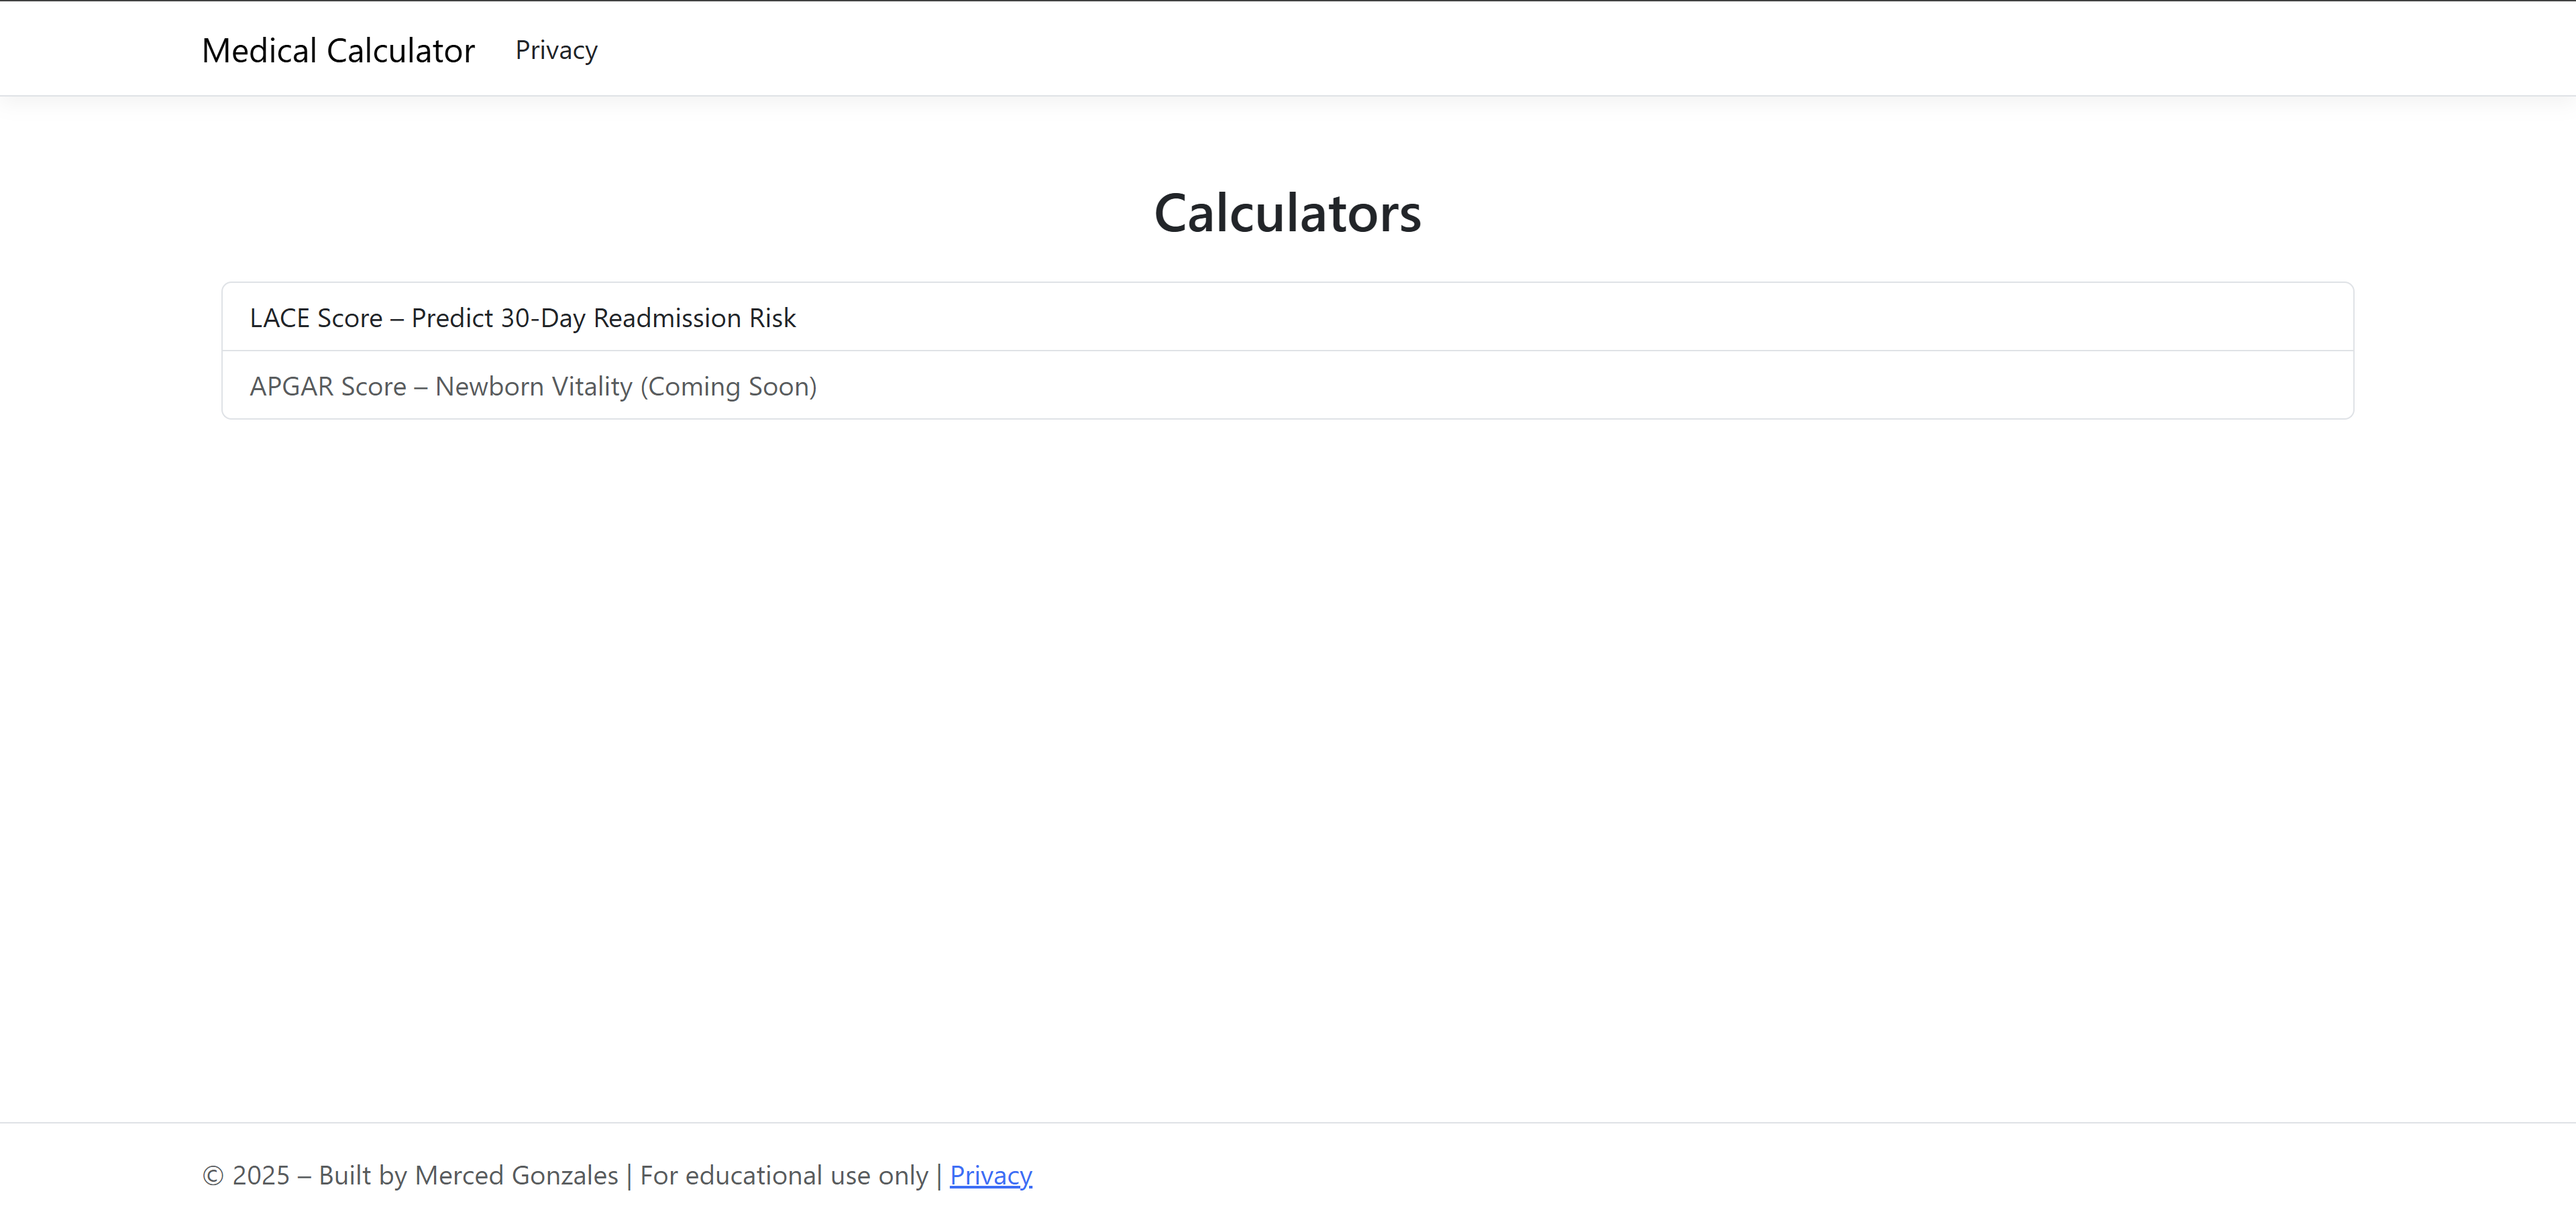
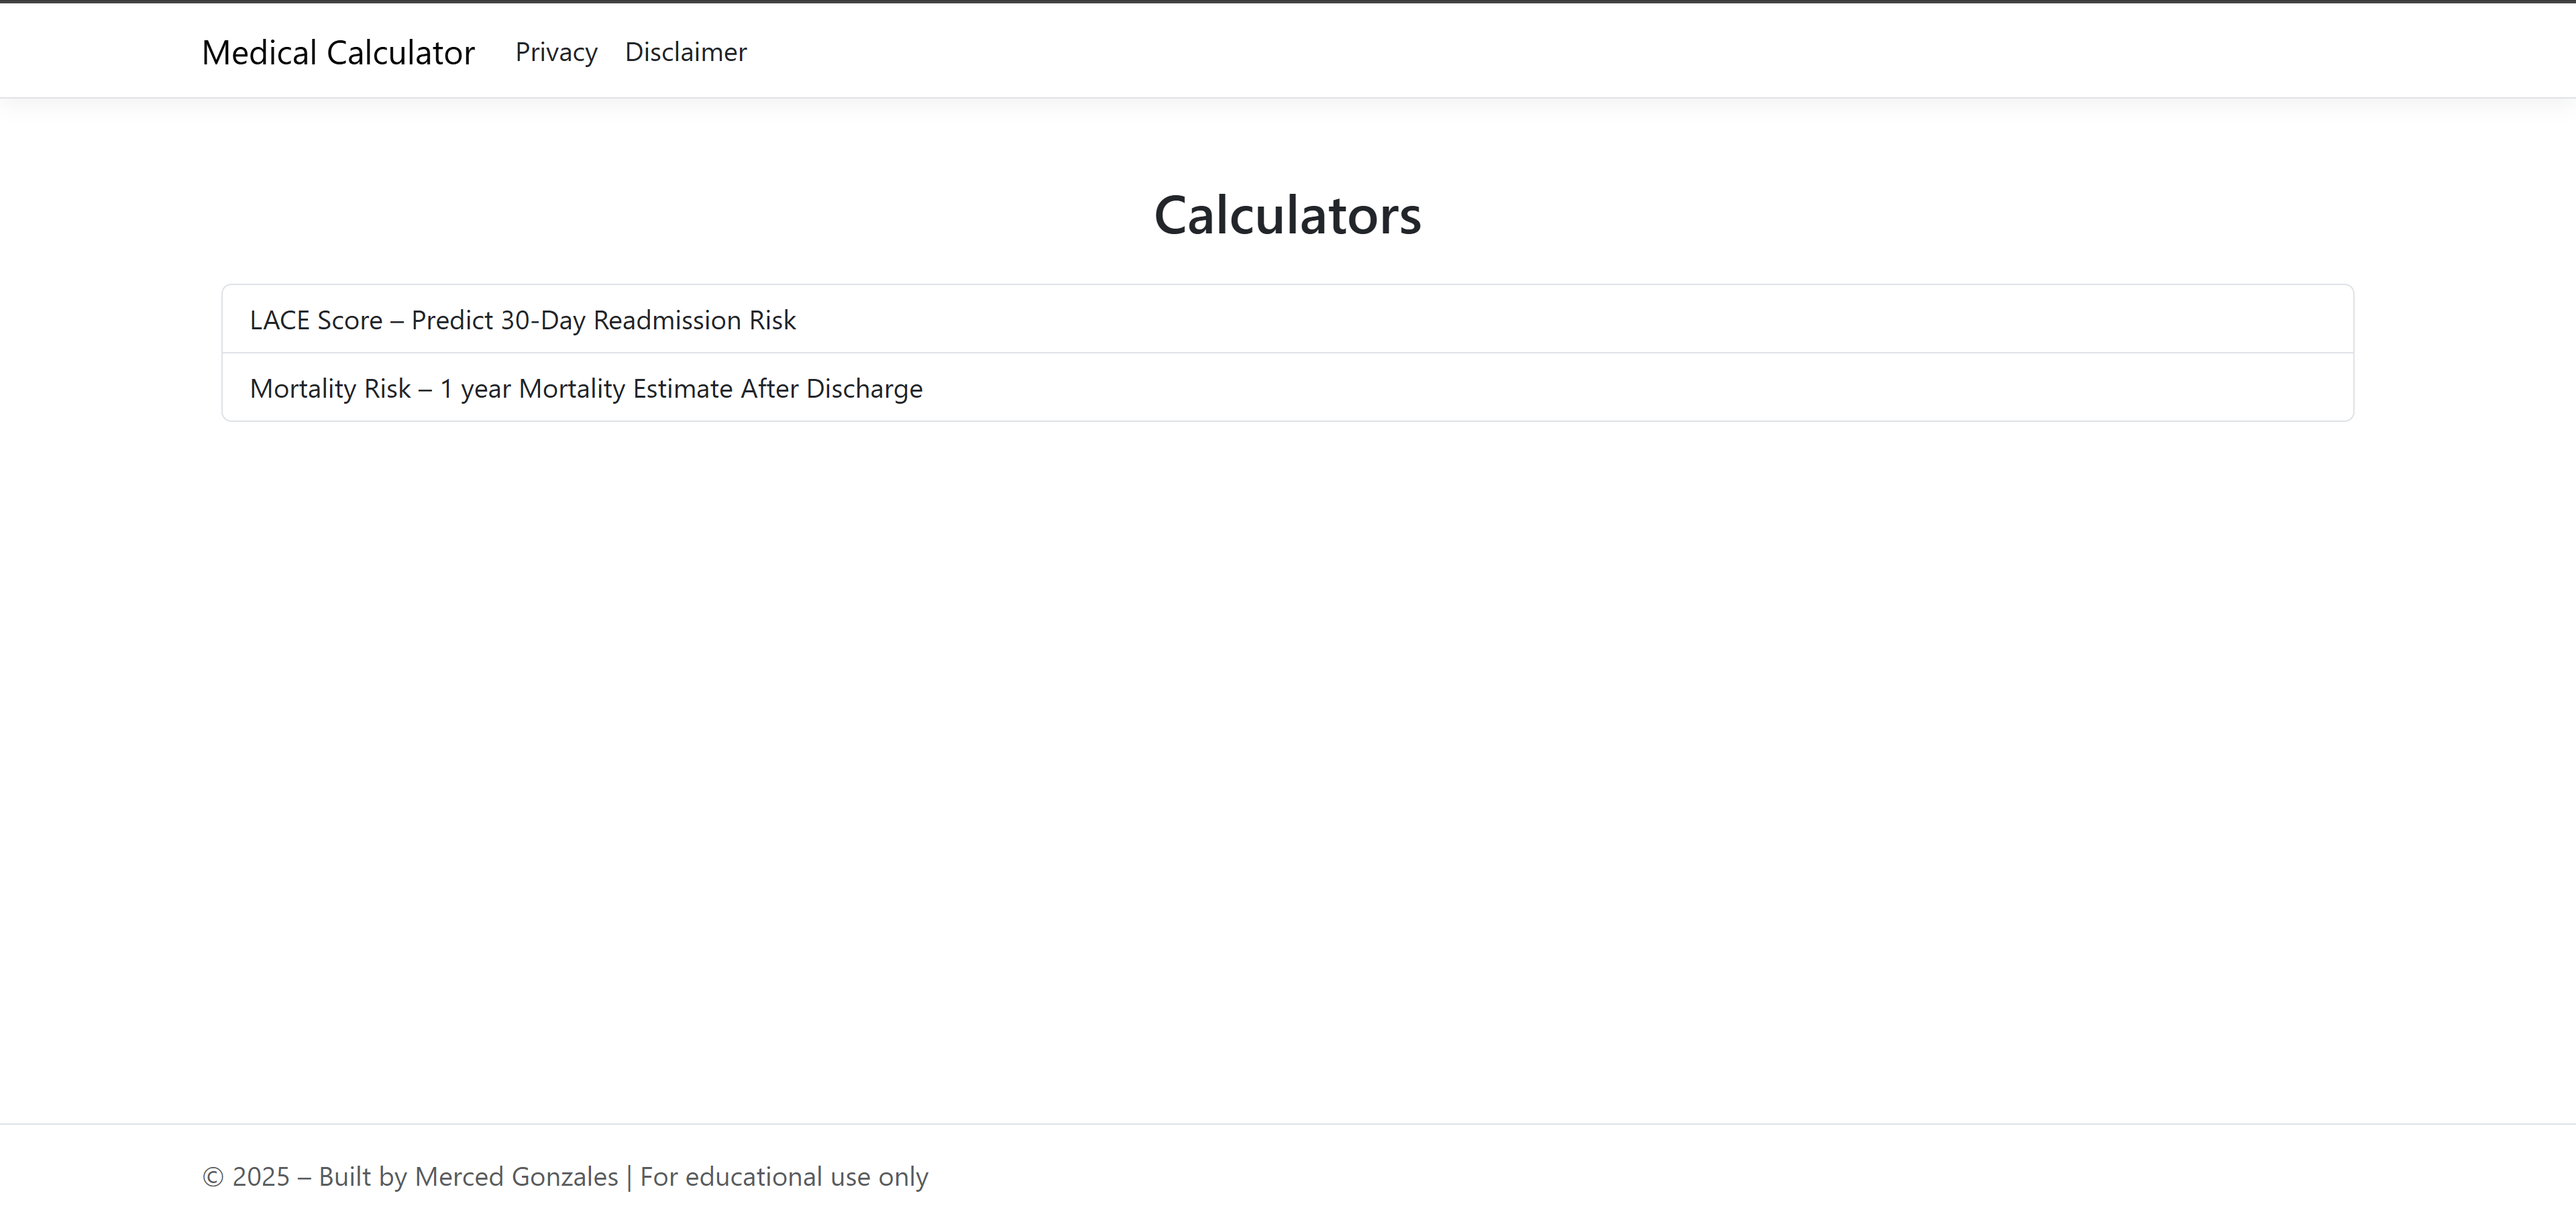
Phase 3 – Mortality Risk Calculator Added
- Created new Mortality Rate calculator (live scoring, responsive UI)
- Added Albumin, Cancer, ADL, Sex, CHF inputs with scoring logic
- Created Disclaimer.cshtml page (replacing external legal links)
- Updated homepage (_Layout.cshtml) with new navigation
- Added screenshot for documentation
- Updated README with Mortality section
- Updated site.js to support both calculators dynamically

diff --git a/LSC.WebApp/wwwroot/js/site.js b/LSC.WebApp/wwwroot/js/site.js
@@ -32,12 +32,41 @@ function updateLaceScore() {
     document.getElementById("scoreOutput").style.display = "block";
 }
 
-// Automatically bind updates on page load
-window.addEventListener('DOMContentLoaded', () => {
-    document.querySelectorAll('select, input[type="radio"]').forEach(input => {
-        input.addEventListener('change', updateLaceScore);
-    });
+function updateMortalityScore() {
+    const chf = document.getElementById("CHF_Comorbid")?.checked ? 2 : 0;
+    const creatinine = document.getElementById("CreatinineHigh")?.checked ? 2 : 0;
+    const sex = parseInt(document.getElementById("Sex")?.value || 0);
+    const adl = parseInt(document.getElementById("ADLDependency")?.value || 0);
+    const cancer = parseInt(document.getElementById("CancerStatus")?.value || 0);
+    const albumin = parseInt(document.getElementById("AlbuminLevel")?.value || 0);
 
-    // Initial render
-    updateLaceScore();
+    const total = chf + creatinine + sex + adl + cancer + albumin;
+
+    let risk = "Unknown";
+    if (total <= 1) risk = "4–13%";
+    else if (total <= 3) risk = "19–20%";
+    else if (total <= 6) risk = "34–37%";
+    else if (total <= 20) risk = "64–68%";
+
+    const output = document.getElementById("scoreOutput");
+    output.innerHTML = `<h4>Total Score: ${total}</h4><p>1-Year Mortality Risk: <strong>${risk}</strong></p>`;
+    output.style.display = "block";
+}
+
+window.addEventListener('DOMContentLoaded', () => {
+    const path = window.location.pathname;
+
+    if (path.includes("/LACE")) {
+        document.querySelectorAll('select, input[type="radio"]').forEach(input => {
+            input.addEventListener('change', updateLaceScore);
+        });
+        updateLaceScore();
+    }
+
+    if (path.includes("/Mortality")) {
+        document.querySelectorAll('select, input[type="radio"], input[type="checkbox"]').forEach(input => {
+            input.addEventListener('change', updateMortalityScore);
+        });
+        updateMortalityScore();
+    }
 });

diff --git a/LSC.WebApp/Pages/Mortality/Index.cshtml.cs b/LSC.WebApp/Pages/Mortality/Index.cshtml.cs
@@ -1,0 +1,37 @@
+using Microsoft.AspNetCore.Mvc;
+using Microsoft.AspNetCore.Mvc.RazorPages;
+
+namespace LSC.WebApp.Pages.Mortality;
+
+public class IndexModel : PageModel
+{
+    private readonly ILogger<IndexModel> _logger;
+
+    public IndexModel(ILogger<IndexModel> logger)
+    {
+        _logger = logger;
+    }
+
+    // ========== Form Inputs ==========
+    [BindProperty] public bool CHF_Comorbid { get; set; }
+    [BindProperty] public bool CreatinineHigh { get; set; }
+    [BindProperty] public int Sex { get; set; }
+    [BindProperty] public int ADLDependency { get; set; }
+    [BindProperty] public int CancerStatus { get; set; }
+    [BindProperty] public int AlbuminLevel { get; set; }
+
+    // ========== Output ==========
+    public int TotalScore { get; set; } = -1;
+
+    public string RiskCategory { get; set; } = "";
+
+    public void OnGet()
+    {
+        
+    }
+
+    public void OnPost()
+    {
+        // I removed the LACE switch calculation logic, we probably won't need it since we want the live update right?
+    }
+}

diff --git a/LSC.WebApp/Pages/Disclaimer.cshtml.cs b/LSC.WebApp/Pages/Disclaimer.cshtml.cs
@@ -1,0 +1,19 @@
+using Microsoft.AspNetCore.Mvc;
+using Microsoft.AspNetCore.Mvc.RazorPages;
+
+namespace LSC.WebApp.Pages;
+
+public class DisclaimerModel : PageModel
+{
+    private readonly ILogger<PrivacyModel> _logger;
+
+    public DisclaimerModel(ILogger<PrivacyModel> logger)
+    {
+        _logger = logger;
+    }
+
+    public void OnGet()
+    {
+    }
+}
+

diff --git a/README.md b/README.md
@@ -4,7 +4,8 @@ A modular medical calculator web app built with ASP.NET Core Razor Pages. Initia
 
 ## Preview
 
-![LACE Calculator Screenshot](docs/homepage.png)
+![Home Page Screenshot](docs/homepage.png)
+![LACE Calculator Screenshot](docs/laceCalcPage.png)
 
 ## Features
 
